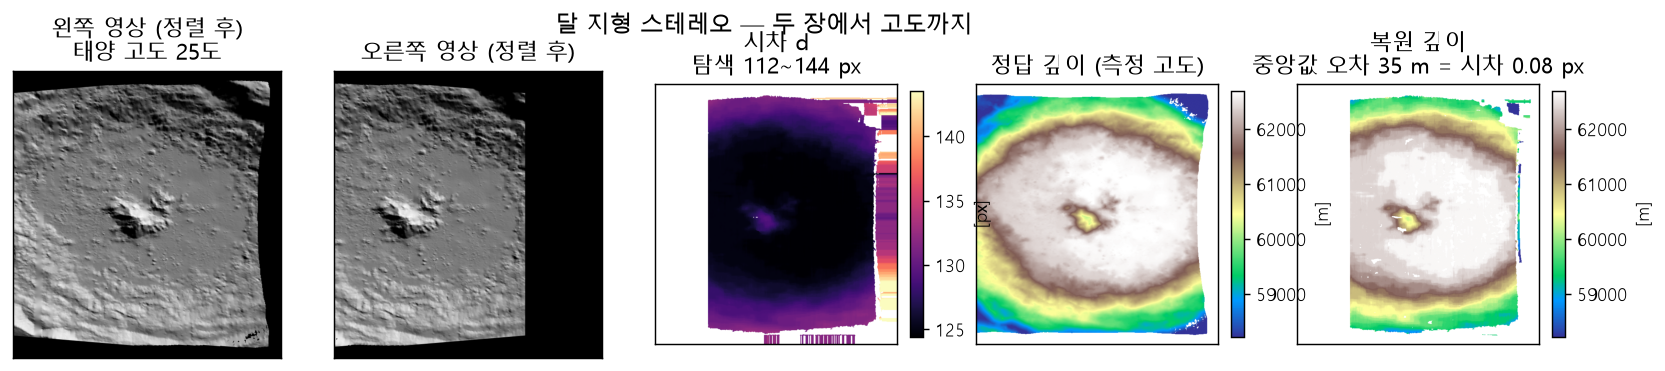
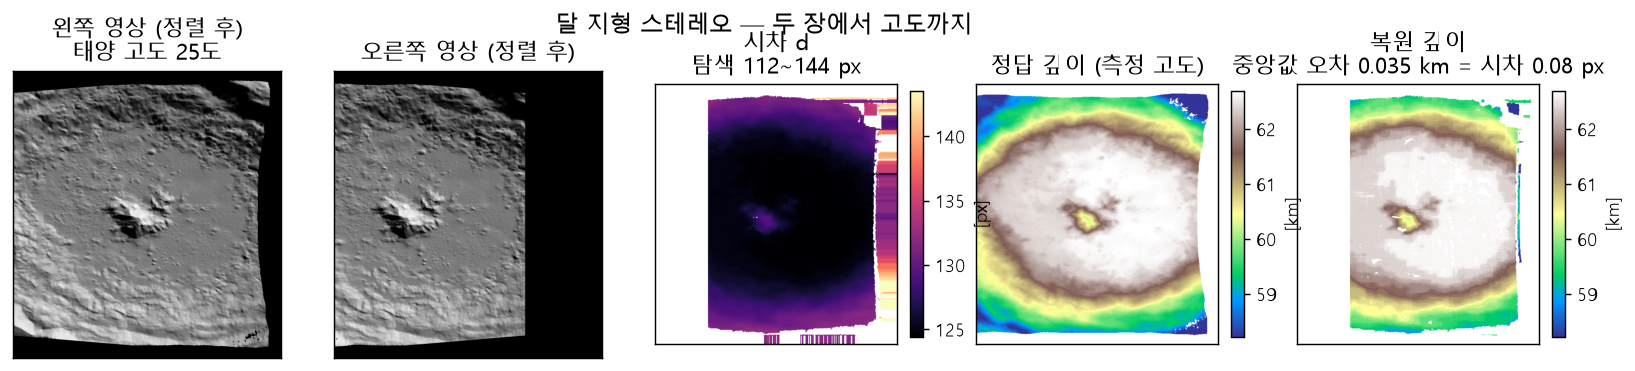
길이 단위를 전부 km 로 통일한다
촬영 고도와 베이스라인만 km 였고 기복·오차·해상도는 m 였다. 한 장 안에서
두 단위가 섞이면 읽는 쪽이 매번 환산해야 하므로 km 하나로 맞춘다. 그림
안의 컬러바와 축도 같이 나눠 라벨과 값이 어긋나지 않게 했다.

Claude-Session: https://claude.ai/code/session_018U3AzX4tcWGeaMbFnbomri

diff --git a/02_2d_to_3d/tools/build_report.py b/02_2d_to_3d/tools/build_report.py
@@ -367,7 +367,7 @@ def build(prs, s):
     sl = new_slide(
         prs, 1, "01 / 방법",
         "달 사진 두 장으로 지형의 높낮이를 복원했습니다",
-        f"티코 크레이터 · LOLA 레이저 고도 모델 {sc['gsd_m']:.0f} m/화소 · "
+        f"티코 크레이터 · LOLA 레이저 고도 모델 {sc['gsd_m']/1000:.3f} km/화소 · "
         f"{sc['grid'][0]}×{sc['grid'][1]}")
     add_image(sl, os.path.join(OUT, "05_method.png"), 0.72, 1.70, 11.89, 3.16)
 
@@ -393,16 +393,16 @@ def build(prs, s):
         (("촬영 고도 H", f"{sc['altitude_m']/1000:.1f} km"), "body"),
         (("베이스라인 B", f"{sc['baseline_m']/1000:.1f} km"), "body"),
         (("초점거리 f", f"{sc['focal_px']:,.0f} px"), "body"),
-        (("d 1픽셀이 바꾸는 Z", f"{res:.0f} m"), "body"),
-        (("→ Z 오차 (중앙값)", f"{best['median_abs']:.0f} m"), "key"),
+        (("d 1픽셀이 바꾸는 Z", f"{res/1000:.2f} km"), "body"),
+        (("→ Z 오차 (중앙값)", f"{best['median_abs']/1000:.3f} km"), "key"),
     ])
     add_notes(sl, f"""
 · 달에 착륙하려면 어디가 평평한지 알아야 합니다. 사진은 색만 있고 높낮이가 없습니다.
 · 그래서 같은 지역을 각도를 바꿔 두 번 찍고, 같은 지점이 두 사진에서 얼마나 밀렸는지로 거리를 계산했습니다.
 · 촬영 고도 {sc['altitude_m']/1000:.0f} km, 두 촬영 지점 사이 {sc['baseline_m']/1000:.1f} km, 시선이 벌어진 각 {sc['convergence_deg']:.0f}도입니다.
 · 나머지는 교과서대로입니다. 두 사진을 평행하게 편 뒤 시차 d 를 찾고 Z = f·B/d 로 나눕니다.
-· 여기서 시차 1픽셀이 {res:.0f} m 입니다. 이보다 미세한 높낮이는 원리적으로 구분되지 않습니다.
-· 결과는 Z 오차 중앙값 {best['median_abs']:.0f} m 입니다. 시차로 {best['median_abs']/res:.2f} 픽셀이니 부화소 수준입니다.
+· 여기서 시차 1픽셀이 {res/1000:.2f} km 입니다. 이보다 미세한 높낮이는 원리적으로 구분되지 않습니다.
+· 결과는 Z 오차 중앙값 {best['median_abs']/1000:.3f} km 입니다. 시차로 {best['median_abs']/res:.2f} 픽셀이니 부화소 수준입니다.
 """)
 
     # ---------------- 2. Unit Test ----------------
@@ -443,8 +443,8 @@ def build(prs, s):
 · 그래서 손으로 답을 낼 수 있는 조건을 만들었습니다. 평지를 수직으로 내려다보면 모든 화소의 깊이가 촬영 고도와 같아야 합니다. 광축에 수직인 평면이기 때문입니다.
 · 왼쪽이 그 테스트 코드입니다. 오른쪽이 실행 결과, {tc}개 전부 통과입니다.
 · 이 테스트들이 실제로 버그를 잡았습니다. 지형을 그릴 때 점을 화소에 던지면서 위치를 반올림했는데, 그 오차가 경사 방향으로 쏠렸습니다.
-· 두 촬영 지점은 서로 반대로 기울어 있어 좌우가 반대로 쏠렸고, 시차가 2.6 픽셀 치우쳐 고도가 1,245 m 틀렸습니다.
-· 화소마다 광선을 쏘는 방식으로 바꿔 0.1 픽셀로 줄였습니다. 고도 오차는 {best['median_abs']:.0f} m 가 됐습니다.
+· 두 촬영 지점은 서로 반대로 기울어 있어 좌우가 반대로 쏠렸고, 시차가 2.6 픽셀 치우쳐 고도가 1.245 km 틀렸습니다.
+· 화소마다 광선을 쏘는 방식으로 바꿔 0.1 픽셀로 줄였습니다. 고도 오차는 {best['median_abs']/1000:.3f} km 가 됐습니다.
 """)
 
     # ---------------- 3. 2D -> 3D 변환 결과 ----------------
@@ -455,24 +455,24 @@ def build(prs, s):
     widest = fu["per_angle"][-1]
     sl = new_slide(
         prs, 3, "03 / 2D → 3D 변환 결과",
-        f"레이저로 잰 고도와 중앙값 {fz['median_abs']:.0f} m 안에서 일치합니다",
+        f"레이저로 잰 고도와 중앙값 {fz['median_abs']/1000:.3f} km 안에서 일치합니다",
         f"수렴각이 다른 네 쌍을 합친 결과 · 복원한 점 {s['n_points']:,}개")
     add_image(sl, os.path.join(OUT, "04_result.png"), 0.72, 1.70, 11.89, 3.16)
 
     add_card(sl, 0.72, 5.02, 4.30, 1.86)
     add_text(sl, 0.98, 5.21, 3.78, 0.24, [("결과", SANS_SB, 10.5, INK)])
     add_matrix(sl, 0.98, 5.60, [2.34, 1.44], [
-        (("고도 오차 (중앙값)", f"{fz['median_abs']:.0f} m"), "key"),
-        (("90 퍼센타일", f"{fz['p90_abs']:.0f} m"), "body"),
+        (("고도 오차 (중앙값)", f"{fz['median_abs']/1000:.3f} km"), "key"),
+        (("90 퍼센타일", f"{fz['p90_abs']/1000:.3f} km"), "body"),
         (("지형 기복 대비", f"{fz['median_abs']/sc['relief_m']*100:.2f}%"), "key"),
         (("값이 나온 셀", f"{fz['coverage']*100:.0f}%"), "body"),
     ])
     add_panel(sl, 5.26, 5.02, 7.35, 1.86,
               "한 쌍보다 여러 쌍이 정확하고 넓습니다", [
-        tk(f"기복 {sc['relief_m']:,.0f} m 인 크레이터를 오차 {fz['median_abs']:.0f} m 로 "
+        tk(f"기복 {sc['relief_m']/1000:.3f} km 인 크레이터를 오차 {fz['median_abs']/1000:.3f} km 로 "
            f"복원했습니다 — 기복의 {fz['median_abs']/sc['relief_m']*100:.2f}% 입니다."),
-        t(f"한 쌍만 쓰면 {one['median_abs']:.0f} m 에 {one['coverage']*100:.0f}%, "
-          f"각도를 벌린 한 쌍은 {widest['median_abs']:.0f} m 에 "
+        t(f"한 쌍만 쓰면 {one['median_abs']/1000:.3f} km 에 {one['coverage']*100:.0f}%, "
+          f"각도를 벌린 한 쌍은 {widest['median_abs']/1000:.3f} km 에 "
           f"{widest['coverage']*100:.0f}% 입니다. 합치면 둘 다 얻습니다."),
         t(f"남은 {100-fz['coverage']*100:.0f}% 는 크레이터 안쪽 그늘입니다. "
           f"두 사진에 같은 무늬가 보이지 않는 곳입니다."),
@@ -480,10 +480,10 @@ def build(prs, s):
     add_notes(sl, f"""
 · 왼쪽이 정답 고도, 가운데가 사진에서 복원한 고도, 오른쪽이 3D 점구름 {s['n_points']:,}개입니다.
 · 크레이터 바닥과 테두리, 가운데 봉우리가 그대로 살아 있습니다.
-· 숫자로는 고도 오차 중앙값 {fz['median_abs']:.0f} m 입니다. 기복이 {sc['relief_m']:,.0f} m 인 지형이니 그 {fz['median_abs']/sc['relief_m']*100:.2f}퍼센트입니다.
+· 숫자로는 고도 오차 중앙값 {fz['median_abs']/1000:.3f} km 입니다. 기복이 {sc['relief_m']/1000:.3f} km 인 지형이니 그 {fz['median_abs']/sc['relief_m']*100:.2f}퍼센트입니다.
 · 정답은 레이저 고도계로 실제로 잰 값입니다. 제가 만든 근사가 아닙니다.
 · 이건 수렴각이 다른 네 쌍을 합친 결과입니다. 각도가 다르면 정합에 성공하는 곳도 다릅니다.
-· 한 쌍만 쓰면 오차 {one['median_abs']:.0f} m 에 {one['coverage']*100:.0f}퍼센트, 각도를 크게 벌린 한 쌍은 {widest['median_abs']:.0f} m 로 정확하지만 {widest['coverage']*100:.0f}퍼센트밖에 못 덮습니다.
+· 한 쌍만 쓰면 오차 {one['median_abs']/1000:.3f} km 에 {one['coverage']*100:.0f}퍼센트, 각도를 크게 벌린 한 쌍은 {widest['median_abs']/1000:.3f} km 로 정확하지만 {widest['coverage']*100:.0f}퍼센트밖에 못 덮습니다.
 · 합치니 오차도 줄고 덮는 범위도 넓어졌습니다. 정밀한 각도가 무거워지도록 분해능 제곱의 역수로 가중했습니다.
 · 남은 {100-fz['coverage']*100:.0f}퍼센트는 크레이터 안쪽 그늘입니다.
 """)
@@ -512,9 +512,9 @@ def build(prs, s):
          "→ 비용 곡선에 대칭 보간을 다시 얹거나 WLS 후처리가 답인데, OpenCV "
          "기본 배포에는 그 모듈이 없습니다."),
         ("4", "더 촘촘한 고도 모델 쓰기",
-         "지금 고도 모델은 118 m/화소이고, 레이저 궤적을 격자로 편 것이라 "
+         "지금 고도 모델은 0.118 km/화소이고, 레이저 궤적을 격자로 편 것이라 "
          "매끈해서 잔무늬가 적습니다.",
-         "→ 2~5 m/화소 모델을 쓰면 정합이 쉬워집니다. 전용 포맷과 도구 체계가 "
+         "→ 0.002~0.005 km/화소 모델을 쓰면 정합이 쉬워집니다. 전용 포맷과 도구 체계가 "
          "필요합니다."),
     ]
     add_card(sl, 0.72, 1.70, 11.89, 5.12)
@@ -534,7 +534,7 @@ def build(prs, s):
 · 태양 각도가 다른 시점을 더 모으면 줄어듭니다. 실제 궤도 영상은 같은 지역을 여러 조명 조건에서 찍으니 가능한 방향입니다.
 · 3번은 시차가 정수 부근에 몰리는 문제입니다. 가로로 2배 늘려 정합해서 49퍼센트에서 36퍼센트까지 낮췄는데, 균일하면 20퍼센트여야 하니 아직 남아 있습니다.
 · 4배로 늘려 봤더니 오히려 나빠졌습니다. 보간이 없는 정보를 만들어 내지는 못하기 때문입니다.
-· 4번은 고도 모델 해상도입니다. 지금은 118 m 화소라 매끈해서 잔무늬가 적습니다. 더 촘촘한 모델을 쓰면 정합이 쉬워지는데, 전용 포맷과 도구가 필요합니다.
+· 4번은 고도 모델 해상도입니다. 지금은 0.118 km 화소라 매끈해서 잔무늬가 적습니다. 더 촘촘한 모델을 쓰면 정합이 쉬워지는데, 전용 포맷과 도구가 필요합니다.
 """)
 
 

diff --git a/02_2d_to_3d/figures.py b/02_2d_to_3d/figures.py
@@ -23,7 +23,7 @@ def figure_overview(elev, gsd, view, rec, scored, path):
     깊이 맵을 색으로만 보여 주면 "그럴듯한 그림" 과 구분이 안 된다. 정답과
     복원을 같은 색 범위로 놓고 그 차이를 따로 그려야 얼마나 맞았는지 보인다.
     """
-    ref, dep = rec["reference"], rec["depth"]
+    ref, dep = rec["reference"] / 1000.0, rec["depth"] / 1000.0
     finite = np.isfinite(ref)
     lo, hi = np.nanpercentile(ref[finite], [2, 98])
     err = np.abs(dep - ref)
@@ -42,12 +42,12 @@ def figure_overview(elev, gsd, view, rec, scored, path):
     r = ax[3].imshow(np.where(finite, ref, np.nan), cmap="terrain",
                      vmin=lo, vmax=hi)
     ax[3].set_title("정답 깊이 (측정 고도)")
-    fig.colorbar(r, ax=ax[3], fraction=0.046, label="[m]")
+    fig.colorbar(r, ax=ax[3], fraction=0.046, label="[km]")
 
     s = ax[4].imshow(dep, cmap="terrain", vmin=lo, vmax=hi)
-    ax[4].set_title(f"복원 깊이\n중앙값 오차 {scored['median_abs']:.0f} m "
+    ax[4].set_title(f"복원 깊이\n중앙값 오차 {scored['median_abs']/1000:.3f} km "
                     f"= 시차 {scored['median_abs_px']:.2f} px")
-    fig.colorbar(s, ax=ax[4], fraction=0.046, label="[m]")
+    fig.colorbar(s, ax=ax[4], fraction=0.046, label="[km]")
 
     for a in ax:
         a.set_xticks([]); a.set_yticks([])
@@ -65,11 +65,11 @@ def figure_tradeoff(conv_rows, block_rows, path):
     fig, ax = plt.subplots(1, 2, figsize=(11.0, 3.6))
 
     conv = [r["convergence_deg"] for r in conv_rows]
-    med = [r["median_abs"] for r in conv_rows]
+    med = [r["median_abs"] / 1000.0 for r in conv_rows]
     val = [r["valid_ratio"] * 100 for r in conv_rows]
     a = ax[0]
-    a.plot(conv, med, "o-", color="#d62728", label="Z 오차 중앙값 [m]")
-    a.set_xlabel("수렴각 [도]"); a.set_ylabel("Z 오차 중앙값 [m]", color="#d62728")
+    a.plot(conv, med, "o-", color="#d62728", label="Z 오차 중앙값 [km]")
+    a.set_xlabel("수렴각 [도]"); a.set_ylabel("Z 오차 중앙값 [km]", color="#d62728")
     a.tick_params(axis="y", labelcolor="#d62728")
     b = a.twinx()
     b.plot(conv, val, "s--", color="#1f77b4", label="유효화소 [%]")
@@ -78,11 +78,11 @@ def figure_tradeoff(conv_rows, block_rows, path):
     a.set_title("수렴각 — 각을 키우면 정밀해지고 정합은 어려워진다")
 
     bs = [r["block_size"] for r in block_rows]
-    med2 = [r["median_abs"] for r in block_rows]
+    med2 = [r["median_abs"] / 1000.0 for r in block_rows]
     val2 = [r["valid_ratio"] * 100 for r in block_rows]
     a = ax[1]
     a.plot(bs, med2, "o-", color="#d62728")
-    a.set_xlabel("정합 블록 크기 [px]"); a.set_ylabel("Z 오차 중앙값 [m]",
+    a.set_xlabel("정합 블록 크기 [px]"); a.set_ylabel("Z 오차 중앙값 [km]",
                                                   color="#d62728")
     a.tick_params(axis="y", labelcolor="#d62728")
     b = a.twinx()
@@ -103,12 +103,14 @@ def figure_cloud(truth_points, cloud, path):
         a.set_aspect("equal"); a.set_xticks([]); a.set_yticks([])
         a.set_title(title, fontsize=12)
 
+    truth_points = truth_points / 1000.0
+    cloud = cloud / 1000.0
     fig, ax = plt.subplots(1, 2, figsize=(9.2, 4.4))
     draw(ax[0], truth_points, None,
          f"정답 지형 ({len(truth_points):,}점)", max(1, len(truth_points) // 60000))
     draw(ax[1], cloud, None,
          f"복원 포인트 클라우드 ({len(cloud):,}점)", max(1, len(cloud) // 60000))
-    fig.suptitle("색은 고도 [m]", fontsize=11)
+    fig.suptitle("색은 고도 [km]", fontsize=11)
     fig.savefig(path); plt.close(fig)
 
 
@@ -118,23 +120,25 @@ def figure_fusion(truth, fused, per_angle, fused_score, gsd, path):
     정밀한 각도는 좁게, 넓은 각도는 성기게 덮는다. 표로 적으면 그 상보성이
     눈에 안 들어오므로, 어디가 비었는지를 그림으로 보인다.
     """
+    truth, fused = truth / 1000.0, fused / 1000.0
+    per_angle = [(c, g / 1000.0, sc) for c, g, sc in per_angle]
     lo, hi = np.nanpercentile(truth, [2, 98])
     n = len(per_angle)
     fig, ax = plt.subplots(1, n + 2, figsize=(3.1 * (n + 2), 3.4))
 
     t = ax[0].imshow(truth, cmap="terrain", vmin=lo, vmax=hi)
     ax[0].set_title("정답 고도\n(레이저 측정)")
-    fig.colorbar(t, ax=ax[0], fraction=0.046, label="[m]")
+    fig.colorbar(t, ax=ax[0], fraction=0.046, label="[km]")
 
     for k, (conv, grid, sc) in enumerate(per_angle, start=1):
         ax[k].imshow(grid, cmap="terrain", vmin=lo, vmax=hi)
         ax[k].set_title(f"수렴각 {conv:.0f}도\n덮은 셀 {sc['coverage']*100:.0f}% · "
-                        f"오차 {sc['median_abs']:.0f} m")
+                        f"오차 {sc['median_abs']/1000:.3f} km")
 
     f = ax[n + 1].imshow(fused, cmap="terrain", vmin=lo, vmax=hi)
     ax[n + 1].set_title(f"융합\n덮은 셀 {fused_score['coverage']*100:.0f}% · "
-                        f"오차 {fused_score['median_abs']:.0f} m")
-    fig.colorbar(f, ax=ax[n + 1], fraction=0.046, label="[m]")
+                        f"오차 {fused_score['median_abs']/1000:.3f} km")
+    fig.colorbar(f, ax=ax[n + 1], fraction=0.046, label="[km]")
 
     for a in ax:
         a.set_xticks([]); a.set_yticks([])
@@ -148,19 +152,20 @@ def figure_result(truth, fused, cloud, gsd, score, path):
     고도 지도만 보이면 "그림이 비슷하다" 로 끝나고, 점구름만 보이면 얼마나
     맞았는지가 안 보인다. 셋을 나란히 놓아야 둘 다 읽힌다.
     """
+    truth, fused, cloud = truth / 1000.0, fused / 1000.0, cloud / 1000.0
     lo, hi = np.nanpercentile(truth, [2, 98])
     fig = plt.figure(figsize=(13.0, 3.6))
 
     a0 = fig.add_subplot(1, 3, 1)
     im = a0.imshow(truth, cmap="terrain", vmin=lo, vmax=hi)
     a0.set_title("정답 고도\n(레이저로 잰 값)")
-    fig.colorbar(im, ax=a0, fraction=0.046, label="[m]")
+    fig.colorbar(im, ax=a0, fraction=0.046, label="[km]")
 
     a1 = fig.add_subplot(1, 3, 2)
     im = a1.imshow(fused, cmap="terrain", vmin=lo, vmax=hi)
     a1.set_title(f"사진에서 복원한 고도\n덮은 셀 {score['coverage']*100:.0f}% · "
-                 f"오차 {score['median_abs']:.0f} m")
-    fig.colorbar(im, ax=a1, fraction=0.046, label="[m]")
+                 f"오차 {score['median_abs']/1000:.3f} km")
+    fig.colorbar(im, ax=a1, fraction=0.046, label="[km]")
 
     a2 = fig.add_subplot(1, 3, 3, projection="3d")
     step = max(1, len(cloud) // 40000)
